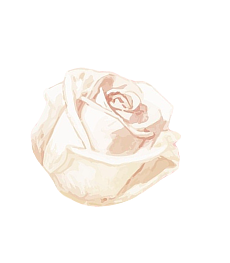
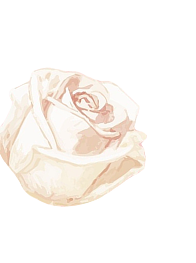
temporary update 2

Changed region(s): [[0.0, 0.2433, 0.7959, 0.7909], [0.3061, 0.4867, 0.3367, 0.5171]]

diff --git a/components/bookingstep/ChoosePackage.tsx b/components/bookingstep/ChoosePackage.tsx
@@ -468,12 +468,10 @@ function ChoosePackage({
         <>
           {/* List View for Small Devices (sm and below) */}
           <div className="flex w-full lg:w-[75%] max-md:w-[85%] max-lg:w-[80%] gap-4">
-            <div className="grid w-full grid-cols-1 gap-4 min-[500px]:grid-cols-2 md:grid-cols-3 lg:grid-cols-4">
+            <div className="grid w-full grid-cols-1 gap-4 min-[500px]:grid-cols-2 ">
               {packages.map((eventPackage: Package, index: number) => (
                 <motion.div
-                  key={eventPackage._id || index}
-                  onClick={() => onNext(eventPackage._id)}
-                  className={`flex flex-col justify-center items-center bg-gray-100 rounded-lg overflow-hidden cursor-pointer p-2 transition-all duration-300 ${
+                  className={`flex flex-col cursor-pointer bg-secondary p-2 rounded-lg transition-all duration-300 ${
                     selectedPackageId === eventPackage._id
                       ? "border-2 border-primary scale-105"
                       : "border border-gray-300"
@@ -482,30 +480,70 @@ function ChoosePackage({
                   whileHover="hover"
                   whileTap="tap"
                 >
-                  <div className="relative w-full h-48">
-                    <Image
-                      src={eventPackage.image[0]}
-                      alt={eventPackage.packageName}
-                      fill
-                      className="object-fit rounded-t-lg"
-                    />
+                  {/* First Row: Image and Package Details */}
+                  <div className="flex flex-row gap-4 w-full items-start">
+                    {" "}
+                    {/* Added items-start */}
+                    {/* Image (40% width) */}
+                    <div
+                      className="relative w-[40%] flex-shrink-0" // 40% width
+                      onClick={(e) => {
+                        e.stopPropagation();
+                        // handleImageClick(eventPackage.image[0]);
+                      }}
+                    >
+                      <div className="pb-[100%] relative">
+                        {" "}
+                        {/* Maintain aspect ratio (1:1) */}
+                        <Image
+                          src={eventPackage.image[0]}
+                          alt={eventPackage.packageName}
+                          layout="fill"
+                          objectFit="cover"
+                          className="rounded-lg"
+                        />
+                      </div>
+                    </div>
+                    {/* Package Name, Price, and Description (60% width) */}
+                    <div className="w-[60%] flex flex-col justify-start">
+                      {" "}
+                      {/* Changed justify-center to justify-start */}
+                      {/* Package Name and Price */}
+                      <div className="flex flex-row gap-2 w-full  items-center">
+                        {/* Package Name */}
+                        <div className="text-xl font-extrabold text-tertiary flex-shrink-0">
+                          {eventPackage.packageName} -
+                        </div>
+
+                        {/* Price and Currency Image */}
+                        <div className="flex flex-row items-center text-xl font-extrabold text-tertiary">
+                          {eventPackage.packagePrice}
+                          <span className=" pt-[0.2rem]">
+                            <Image
+                              src="/images/SR.png"
+                              alt="SR"
+                              width={20}
+                              height={20}
+                              className={
+                                currentLocale === "ar" ? "scale-x-[-1]" : ""
+                              }
+                            />
+                          </span>
+                        </div>
+                      </div>
+                      {/* Description (Truncated) */}
+                      {eventPackage.description && (
+                        <div
+                          className="mt-2 text-sm text-gray-600 truncate"
+                          title={eventPackage.description}
+                        >
+                          {eventPackage.description.length > 20
+                            ? `${eventPackage.description.substring(0, 20)}...`
+                            : eventPackage.description}
+                        </div>
+                      )}
+                    </div>
                   </div>
-                  <p className="mt-2 text-sm text-tertiary font-medium flex items-center text-center">
-                    {
-                      renderValue(
-                        eventPackage.packageName,
-                        eventPackage.translatedPackageName
-                      ) // Render translated package name if available
-                    }
-                    - {eventPackage.packagePrice}{" "}
-                    <Image
-                      src="/images/SR.png"
-                      alt="SR"
-                      width={20}
-                      height={20}
-                      className={currentLocale === "ar" ? "scale-x-[-1]" : ""}
-                    />
-                  </p>
                 </motion.div>
               ))}
             </div>

diff --git a/components/bookingstep/ExtraService.tsx b/components/bookingstep/ExtraService.tsx
@@ -445,6 +445,32 @@ const ParentComponent: React.FC<ExtraServiceProps> = ({
         {/* Buttons */}
 
         <div className="flex justify-center items-center gap-5 my-5 md:my-10">
+          <motion.button
+            onClick={onBack}
+            className=" flex items-center p-2 rounded-full text-white cursor-pointer bg-primary hover:bg-secondary hover:text-primary"
+            variants={{
+              hover: {
+                scale: 1.05,
+                boxShadow: "0px 4px 8px rgba(0, 0, 0, 0.2)",
+                transition: { duration: 0.2, ease: "easeInOut" },
+              },
+              tap: {
+                scale: 0.95,
+                boxShadow: "0px 2px 4px rgba(0, 0, 0, 0.2)",
+                transition: { duration: 0.1, ease: "easeInOut" },
+              },
+            }}
+            whileHover="hover"
+            whileTap="tap"
+          >
+            <span className="">
+              {currentLocale === "ar" ? (
+                <AiOutlineRight size={20} />
+              ) : (
+                <AiOutlineLeft size={20} />
+              )}
+            </span>
+          </motion.button>
           {selectedServices.length < 1 && (
             <motion.button
               onClick={() => handleDone(true)} // Call handleDone with skip=true
@@ -473,6 +499,7 @@ const ParentComponent: React.FC<ExtraServiceProps> = ({
               </span>
             </motion.button>
           )}
+
           {selectedServices.length > 0 && (
             <motion.button
               onClick={() => handleDone(false)} // Call handleDone with skip=false

diff --git a/components/bookingstep/PackageDetails.tsx b/components/bookingstep/PackageDetails.tsx
@@ -7,6 +7,7 @@ import Image from "next/image";
 import { useSelector } from "react-redux";
 import { useGetPackageDetailQuery } from "@/store/endpoints/apiSlice"; // Import the Redux query
 import { motion, AnimatePresence } from "framer-motion"; // Import Framer Motion
+import { AiOutlineLeft, AiOutlineRight } from "react-icons/ai";
 
 function PackageDetails({
   packageId,
@@ -366,6 +367,32 @@ function PackageDetails({
 
       <div className="flex gap-5">
         {/* Back Button */}
+        <motion.button
+          onClick={onBack}
+          className=" flex items-center p-2 rounded-full text-white cursor-pointer bg-primary hover:bg-secondary hover:text-primary"
+          variants={{
+            hover: {
+              scale: 1.05,
+              boxShadow: "0px 4px 8px rgba(0, 0, 0, 0.2)",
+              transition: { duration: 0.2, ease: "easeInOut" },
+            },
+            tap: {
+              scale: 0.95,
+              boxShadow: "0px 2px 4px rgba(0, 0, 0, 0.2)",
+              transition: { duration: 0.1, ease: "easeInOut" },
+            },
+          }}
+          whileHover="hover"
+          whileTap="tap"
+        >
+          <span className="">
+            {currentLocale === "ar" ? (
+              <AiOutlineRight size={20} />
+            ) : (
+              <AiOutlineLeft size={20} />
+            )}
+          </span>
+        </motion.button>
         {/* <motion.button
           onClick={onBack}
           className="back-btn flex items-center p-2 hover:bg-secondary rounded-lg border border-primary text-primary cursor-pointer"

diff --git a/components/bookingstep/ChooseAdditional.tsx b/components/bookingstep/ChooseAdditional.tsx
@@ -437,9 +437,9 @@ function ChooseAdditional({ onSubmit, onBack }: ChooseAdditionalProps) {
           </div>
         )}
         <div className="flex flex-row gap-5 my-2 md:mt-10">
-          {/* <motion.button
+          <motion.button
             onClick={onBack}
-            className="back-btn flex items-center hover:bg-secondary p-2 rounded-lg border border-primary text-primary cursor-pointer"
+            className=" flex items-center p-2 rounded-full text-white cursor-pointer bg-primary hover:bg-secondary hover:text-primary"
             variants={{
               hover: {
                 scale: 1.05,
@@ -455,15 +455,14 @@ function ChooseAdditional({ onSubmit, onBack }: ChooseAdditionalProps) {
             whileHover="hover"
             whileTap="tap"
           >
-            <span className="mr-2">
+            <span className="">
               {currentLocale === "ar" ? (
                 <AiOutlineRight size={20} />
               ) : (
                 <AiOutlineLeft size={20} />
               )}
             </span>
-            <span>{translations.booking.backBtn}</span>
-          </motion.button> */}
+          </motion.button>
 
           <motion.button
             onClick={handleNextClick}

diff --git a/globals.css b/globals.css
@@ -57,20 +57,22 @@ body {
   font-family: var(--font-primary);
 }
 /* Top-left image */
+
 body::before {
   content: "";
   position: absolute;
   top: 50%;
-  left: 0;
+  left: -1%;
   z-index: -1;
   width: 45%; /* Adjust size as needed */
   height: 45%;
-  background-image: url("/images/illustration-drawing-white-rose-flower 7.png"); /* Replace with your image path */
-  background-size: contain;
+  background-image: url("/images/illustration-drawing-white-rose-flower 7.png"),
+    /* First image */
+      url("/images/illustration-drawing-white-rose-flower 6.png"); /* Second image */
+  background-size: 30% auto, /* Size for the first image */ 20% auto; /* Size for the second image */
   background-repeat: no-repeat;
-  background-position: left;
+  background-position: left, /* Position for the first image */ left -6% top 10%; /* Position for the second image (10% left shift, 20% from the top) */
 }
-
 /* Top-right image */
 body::after {
   content: "";
